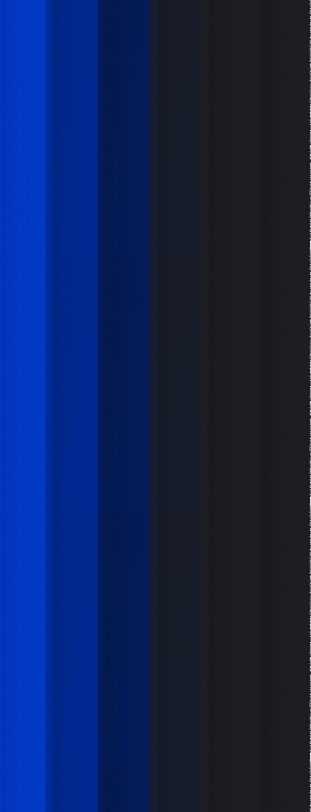
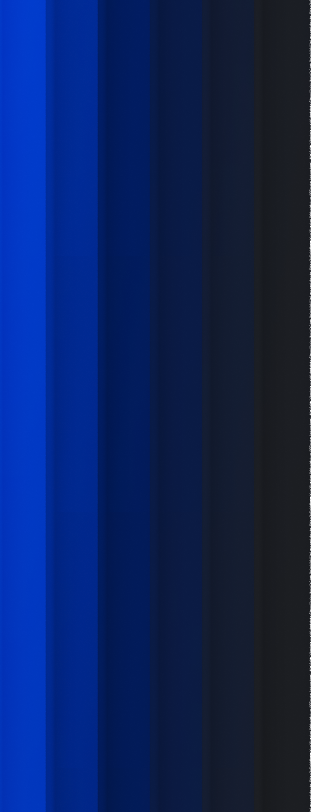
hero

Changed region(s): [[0.463, 0.0, 0.6656, 1.0]]

diff --git a/src/css/02-hero.css b/src/css/02-hero.css
@@ -1,22 +1,32 @@
-/*=================================Mobile=======================*/
-.section-base {
-  padding: 32px 0;
-}
-.hero {
+/* =================================Mobile=======================*/
+.hero .container {
   position: relative;
-  background: linear-gradient(
-    -90deg,
-    #1c1d20 49.68%,
-    #001958 67.73%,
-    #0041e8 100%
-  );
-  background-image: url('/images/hero/hero-mobile.png');
-  background-size: 375px 812px;
-  background-position: -64px 0;
-  background-repeat: no-repeat;
+  z-index: 99;
+}
+.hero.hero-grad {
+  position: relative;
+  min-height: 100vh;
+  padding: 32px 0;
+  width: 100vw;
+  background: linear-gradient(-90deg, #1c1d20 50%, #001958 68%, #0041e8 100%);
+  background-size: cover;
+  background-position: center;
+}
+
+.hero::before {
+  content: '';
+  position: absolute;
+  top: 0;
+  left: 0;
+  width: 90vw;
+  height: 100%;
+  background: url('/images/hero/hero-mobile.png') no-repeat left center;
+  background-size: cover;
+  background-position: center;
+  z-index: 0;
 }
 .hero-title {
-  width: 343px;
+  width: 100%;
   max-height: 250px;
   margin-top: 249px;
   margin-bottom: 212px;
@@ -45,17 +55,19 @@
   font-size: 14px;
 }
 @media screen and (max-width: 767px) and (min-resolution: 192dpi) {
-  .hero {
-    background-image: url('/images/hero/hero-mobile@2x.png');
+  .hero::before {
+    background: url('/images/hero/hero-mobile@2x.png') no-repeat left center;
+    background-size: cover;
+    background-position: center;
   }
 }
 /*================================/Mobile=======================*/
 /*=================================Tablet=======================*/
 @media only screen and (min-width: 768px) {
-  .hero {
-    background-image: url('/images/hero/hero-tablet.png');
-    background-size: 728px 1024px;
-    background-position: -147px 0;
+  .hero::before {
+    background: url('/images/hero/hero-tablet.png') no-repeat left center;
+    background-size: cover;
+    width: 85vw;
   }
   .hero-title {
     width: 632px;
@@ -85,18 +97,19 @@
   }
 }
 @media screen and (min-width: 767px) and (min-resolution: 192dpi) {
-  .hero {
-    background-image: url('../images/hero/hero-tablet@2x.png');
+  .hero::before {
+    background: url('/images/hero/hero-tablet@2x.png') no-repeat left center;
+    background-size: cover;
+    background-position: center;
   }
 }
 /*=================================/Tablet=======================*/
 /*=================================Desktop=======================*/
 @media only screen and (min-width: 1440px) {
-  .hero {
-    max-height: 900px;
-    background-image: url('../images/hero/hero-desktop.png');
-    background-size: 50% 100%;
-    background-position: left center;
+  .hero::before {
+    background: url('/images/hero/hero-desktop.png') no-repeat left center;
+    background-size: cover;
+    width: 50vw;
   }
   .hero-title {
     width: 1084px;
@@ -109,9 +122,11 @@
     margin-bottom: 0;
   }
 }
-@media screen and (min-width: 1280px) and (min-resolution: 192dpi) {
-  .hero {
-    background-image: url('../images/hero/hero-desktop@2x.png');
+@media screen and (min-width: 1440px) and (min-resolution: 192dpi) {
+  .hero::before {
+    background: url('/images/hero/hero-desktop@2x.png') no-repeat left center;
+    background-size: cover;
+    background-position: center;
   }
 }
-/*================================/Desktop=======================*/
+/*================================/Desktop======================= */

diff --git a/src/partials/02-hero.html b/src/partials/02-hero.html
@@ -1,20 +1,21 @@
-<section class="section-base hero">
-    <div class="container">
+<section class="section-base hero-grad hero" id="hero">
+        <div class="container">
 
-        <h1 class="hero-title">Hello.<br>
-            I’m Fullstack developer Lloyd Jefferson.</h1>
-        <ul class="hero-list">
-            <li class="hero-list-item"><a href="https://www.instagram.com/goitclub/  "
-                    class="hero-list-link" target="_blank">IG</a></li>
-            <li class="hero-list-item"><a href="https://www.facebook.com/goITclub/"
-                    class="hero-list-link" target="_blank">FB</a></li>
-            <li class="hero-list-item"><a href="https://www.youtube.com/c/GoIT"
-                    class="hero-list-link" target="_blank">YT</a></li>
-            <li class="hero-list-item"><a
-                    href="https://github.com/Sviatoslav-lion/project-ProCoders-8"
-                    class="hero-list-link" target="_blank">GH</a></li>
-            <li class="hero-list-mail"><a href="mailto:lloydjefferson@gmail.com"
-                    class="hero-list-link" target="_blank">lloydjefferson@gmail.com</a></li>
-        </ul>
-    </div>
+                <h1 class="hero-title">Hello.<br>
+                        I’m Fullstack developer Lloyd Jefferson.</h1>
+                <ul class="hero-list">
+                        <li class="hero-list-item"><a href="https://www.instagram.com/goitclub/  "
+                                        class="hero-list-link" target="_blank">IG</a></li>
+                        <li class="hero-list-item"><a href="https://www.facebook.com/goITclub/"
+                                        class="hero-list-link" target="_blank">FB</a></li>
+                        <li class="hero-list-item"><a href="https://www.youtube.com/c/GoIT"
+                                        class="hero-list-link" target="_blank">YT</a></li>
+                        <li class="hero-list-item"><a
+                                        href="https://github.com/Sviatoslav-lion/project-ProCoders-8"
+                                        class="hero-list-link" target="_blank">GH</a></li>
+                        <li class="hero-list-mail"><a href="mailto:lloydjefferson@gmail.com"
+                                        class="hero-list-link"
+                                        target="_blank">lloydjefferson@gmail.com</a></li>
+                </ul>
+        </div>
 </section>
